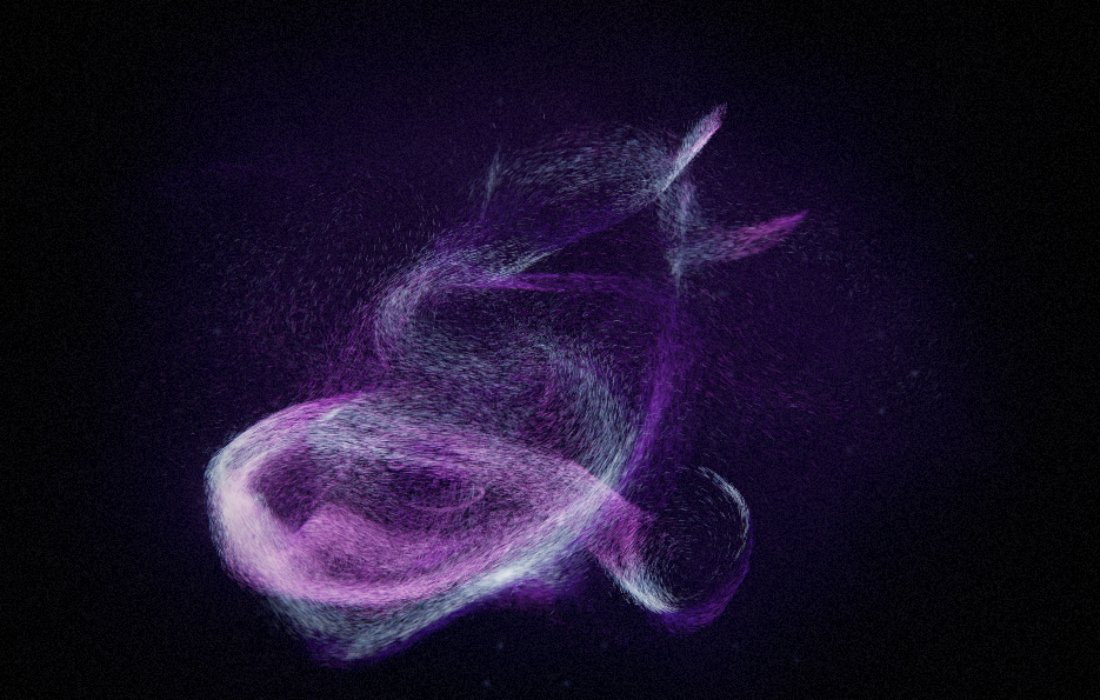
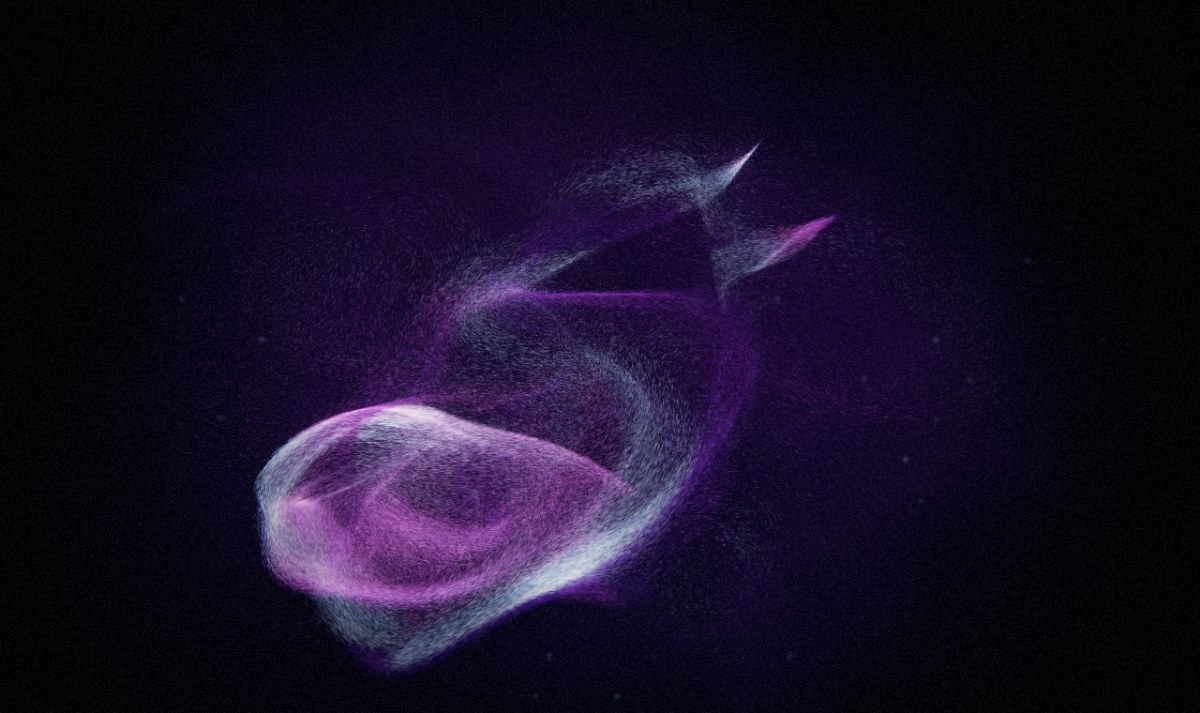
Distinct visual character per band, voice and articulation
Each frequency band now has its own physical character rather than only its
own colour, the voice arrives as a separate coherent form, and struck bands
spark where sustained ones flow.

Faster than before despite the additions, measured as GPU time at 5.5MP:
260k 6.43 -> 4.23ms, 620k 10.46 -> 8.07ms, 1.2M 13.52 -> 11.85ms.

Also fixes tools/bench.sh, which still matched the old page title and so
stopped closing leftover tabs between runs - the exact thing its own header
warns about.

Changed region(s): [[0.1545, 0.15, 0.7418, 0.96]]

diff --git a/src/renderer.js b/src/renderer.js
@@ -18,7 +18,7 @@ const SHADERS = [
 
 const SPECTRUM_BINS = 128;
 const PARTICLE_STRIDE = 40; // bytes: pos, vel, home, seed, life, depth, band
-const UNIFORM_FLOATS = 76;
+const UNIFORM_FLOATS = 96;
 
 const U = {
   resX: 0, resY: 1, invX: 2, invY: 3,
@@ -35,7 +35,13 @@ const U = {
   trail0: 44, trail1: 48, trail2: 52, trail3: 56, trail4: 60, trail5: 64,
   interactionGlow: 68, phasePulse: 69, onset: 70, musicDensity: 71,
   lull: 72, breath: 73, entry: 74,
+  voicePresence: 76, attack: 77, percussiveness: 78,
+  bandAttack: 80, bandSustain: 88,
 };
+
+function clamp01(value) {
+  return Math.max(0, Math.min(1, Number.isFinite(value) ? value : 0));
+}
 
 export class Renderer {
   constructor(canvas) {
@@ -684,11 +690,26 @@ export class Renderer {
     u[U.interactionGlow] = state.interactionGlow
       ?? Math.max(it.glow, pointerDown * 0.8, trailGlow * 0.32);
     u[U.phasePulse] = phasePulse;
-    u[U.onset] = Math.max(0, Math.min(1, state.onset ?? 0));
-    u[U.musicDensity] = Math.max(0, Math.min(1, state.density ?? 0));
-    u[U.lull] = Math.max(0, Math.min(1, state.lull ?? 0));
-    u[U.breath] = Math.max(0, Math.min(1, state.breath ?? 0));
-    u[U.entry] = Math.max(0, Math.min(1, state.entry ?? 0));
+    u[U.onset] = clamp01(state.onset);
+    u[U.musicDensity] = clamp01(state.density);
+    u[U.lull] = clamp01(state.lull);
+    u[U.breath] = clamp01(state.breath);
+    u[U.entry] = clamp01(state.entry);
+
+    // The analyser already gives voice a phrase-length envelope. Squaring the
+    // hint separates a real entrance from occasional centred strings without
+    // turning it into a binary detector; confidence makes mono/mic input an
+    // exact no-op.
+    const voice = clamp01(state.voice);
+    u[U.voicePresence] = voice * voice * clamp01(state.voiceConfidence);
+    u[U.attack] = clamp01(state.attack);
+    u[U.percussiveness] = clamp01(state.percussiveness);
+    const bandAttack = state.bandAttack;
+    const bandSustain = state.bandSustain;
+    for (let i = 0; i < 6; i++) {
+      u[U.bandAttack + i] = clamp01(bandAttack?.[i]);
+      u[U.bandSustain + i] = clamp01(bandSustain?.[i]);
+    }
 
     d.queue.writeBuffer(this.uniformBuffer, 0, u);
     d.queue.writeBuffer(this.spectrumBuffer, 0, state.spectrum);

diff --git a/README.md b/README.md
@@ -11,7 +11,13 @@ The flagship track is Patrick Watson's *Je te laisserai des mots*, but it reads 
 
 ![the same track sixteen seconds later, in the near-silent bar](docs/lull.jpg)
 
-The same track sixteen seconds apart: a full passage, then the near-silent bar at 0:58. Nothing is scripted - the field thins, dims and slows because the music did.
+The same track fifteen seconds apart: a full passage, then the near-silent bar at 1:06. Nothing is scripted - the field thins, dims and slows because the music did.
+
+![the solo piano opening](docs/piano.jpg)
+
+![a sung phrase](docs/voice.jpg)
+
+And the solo piano opening against a sung phrase. The piano reads struck and warm; the voice, isolated by its centre placement rather than its pitch, arrives as a separate coherent form.
 
 ## Run it
 
@@ -139,11 +145,11 @@ GPU time per frame on an M-series Mac at 1800x3043 (5.5MP, a Retina window), tra
 
 | preset | particles | GPU / frame | headroom |
 | --- | --- | --- | --- |
-| calm | 260k | 6.43 ms | 156 fps |
-| full | 620k | 10.46 ms | 96 fps |
-| lavish | 1.2M | 13.52 ms | 74 fps |
+| calm | 260k | 4.23 ms | 236 fps |
+| full | 620k | 8.07 ms | 124 fps |
+| lavish | 1.2M | 11.85 ms | 84 fps |
 
-4.6x the particles for 2.1x the GPU time, which is the point of the footprint normalisation above.
+4.6x the particles for 2.8x the GPU time, which is the point of the footprint normalisation above.
 
 These are GPU-time numbers, not wall clock, and the distinction matters: measured on a machine at load 7 the same configurations read 13/19/29 ms of wall clock, because the frame loop was contending with everything else running. Wall-clock frame deltas are worth watching for what a user experiences, but they are the wrong instrument for judging a rendering change.
 
